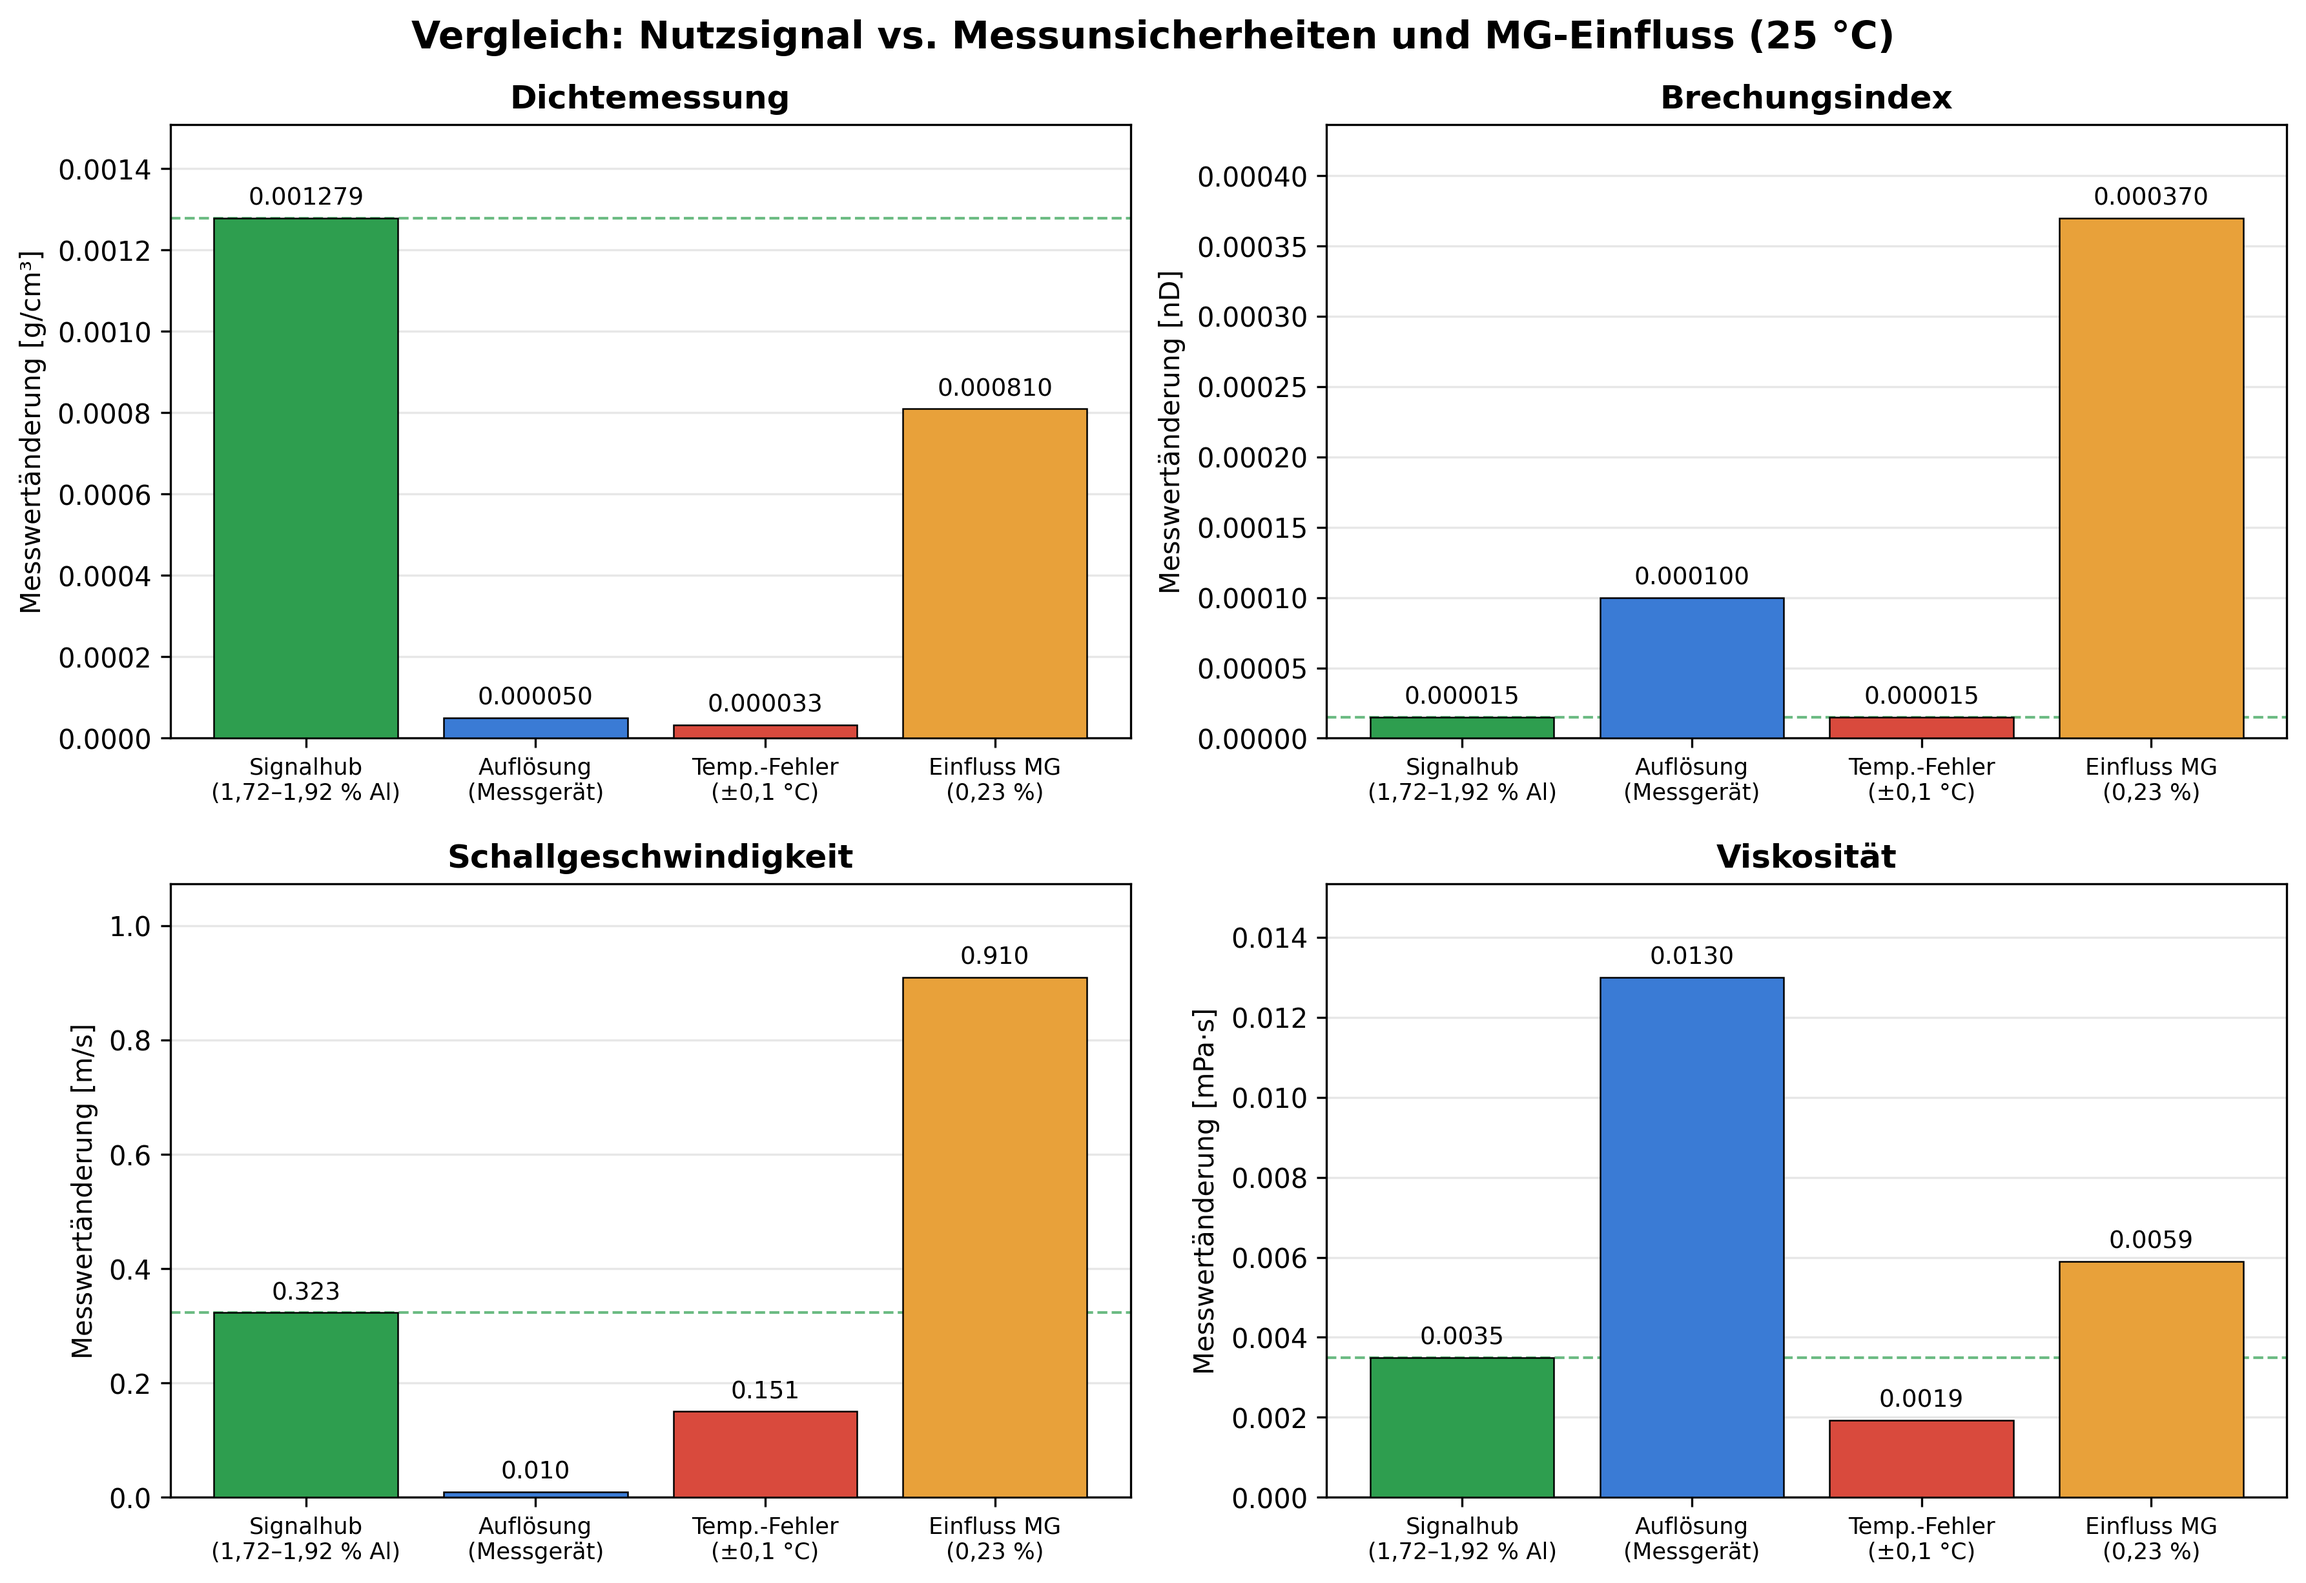
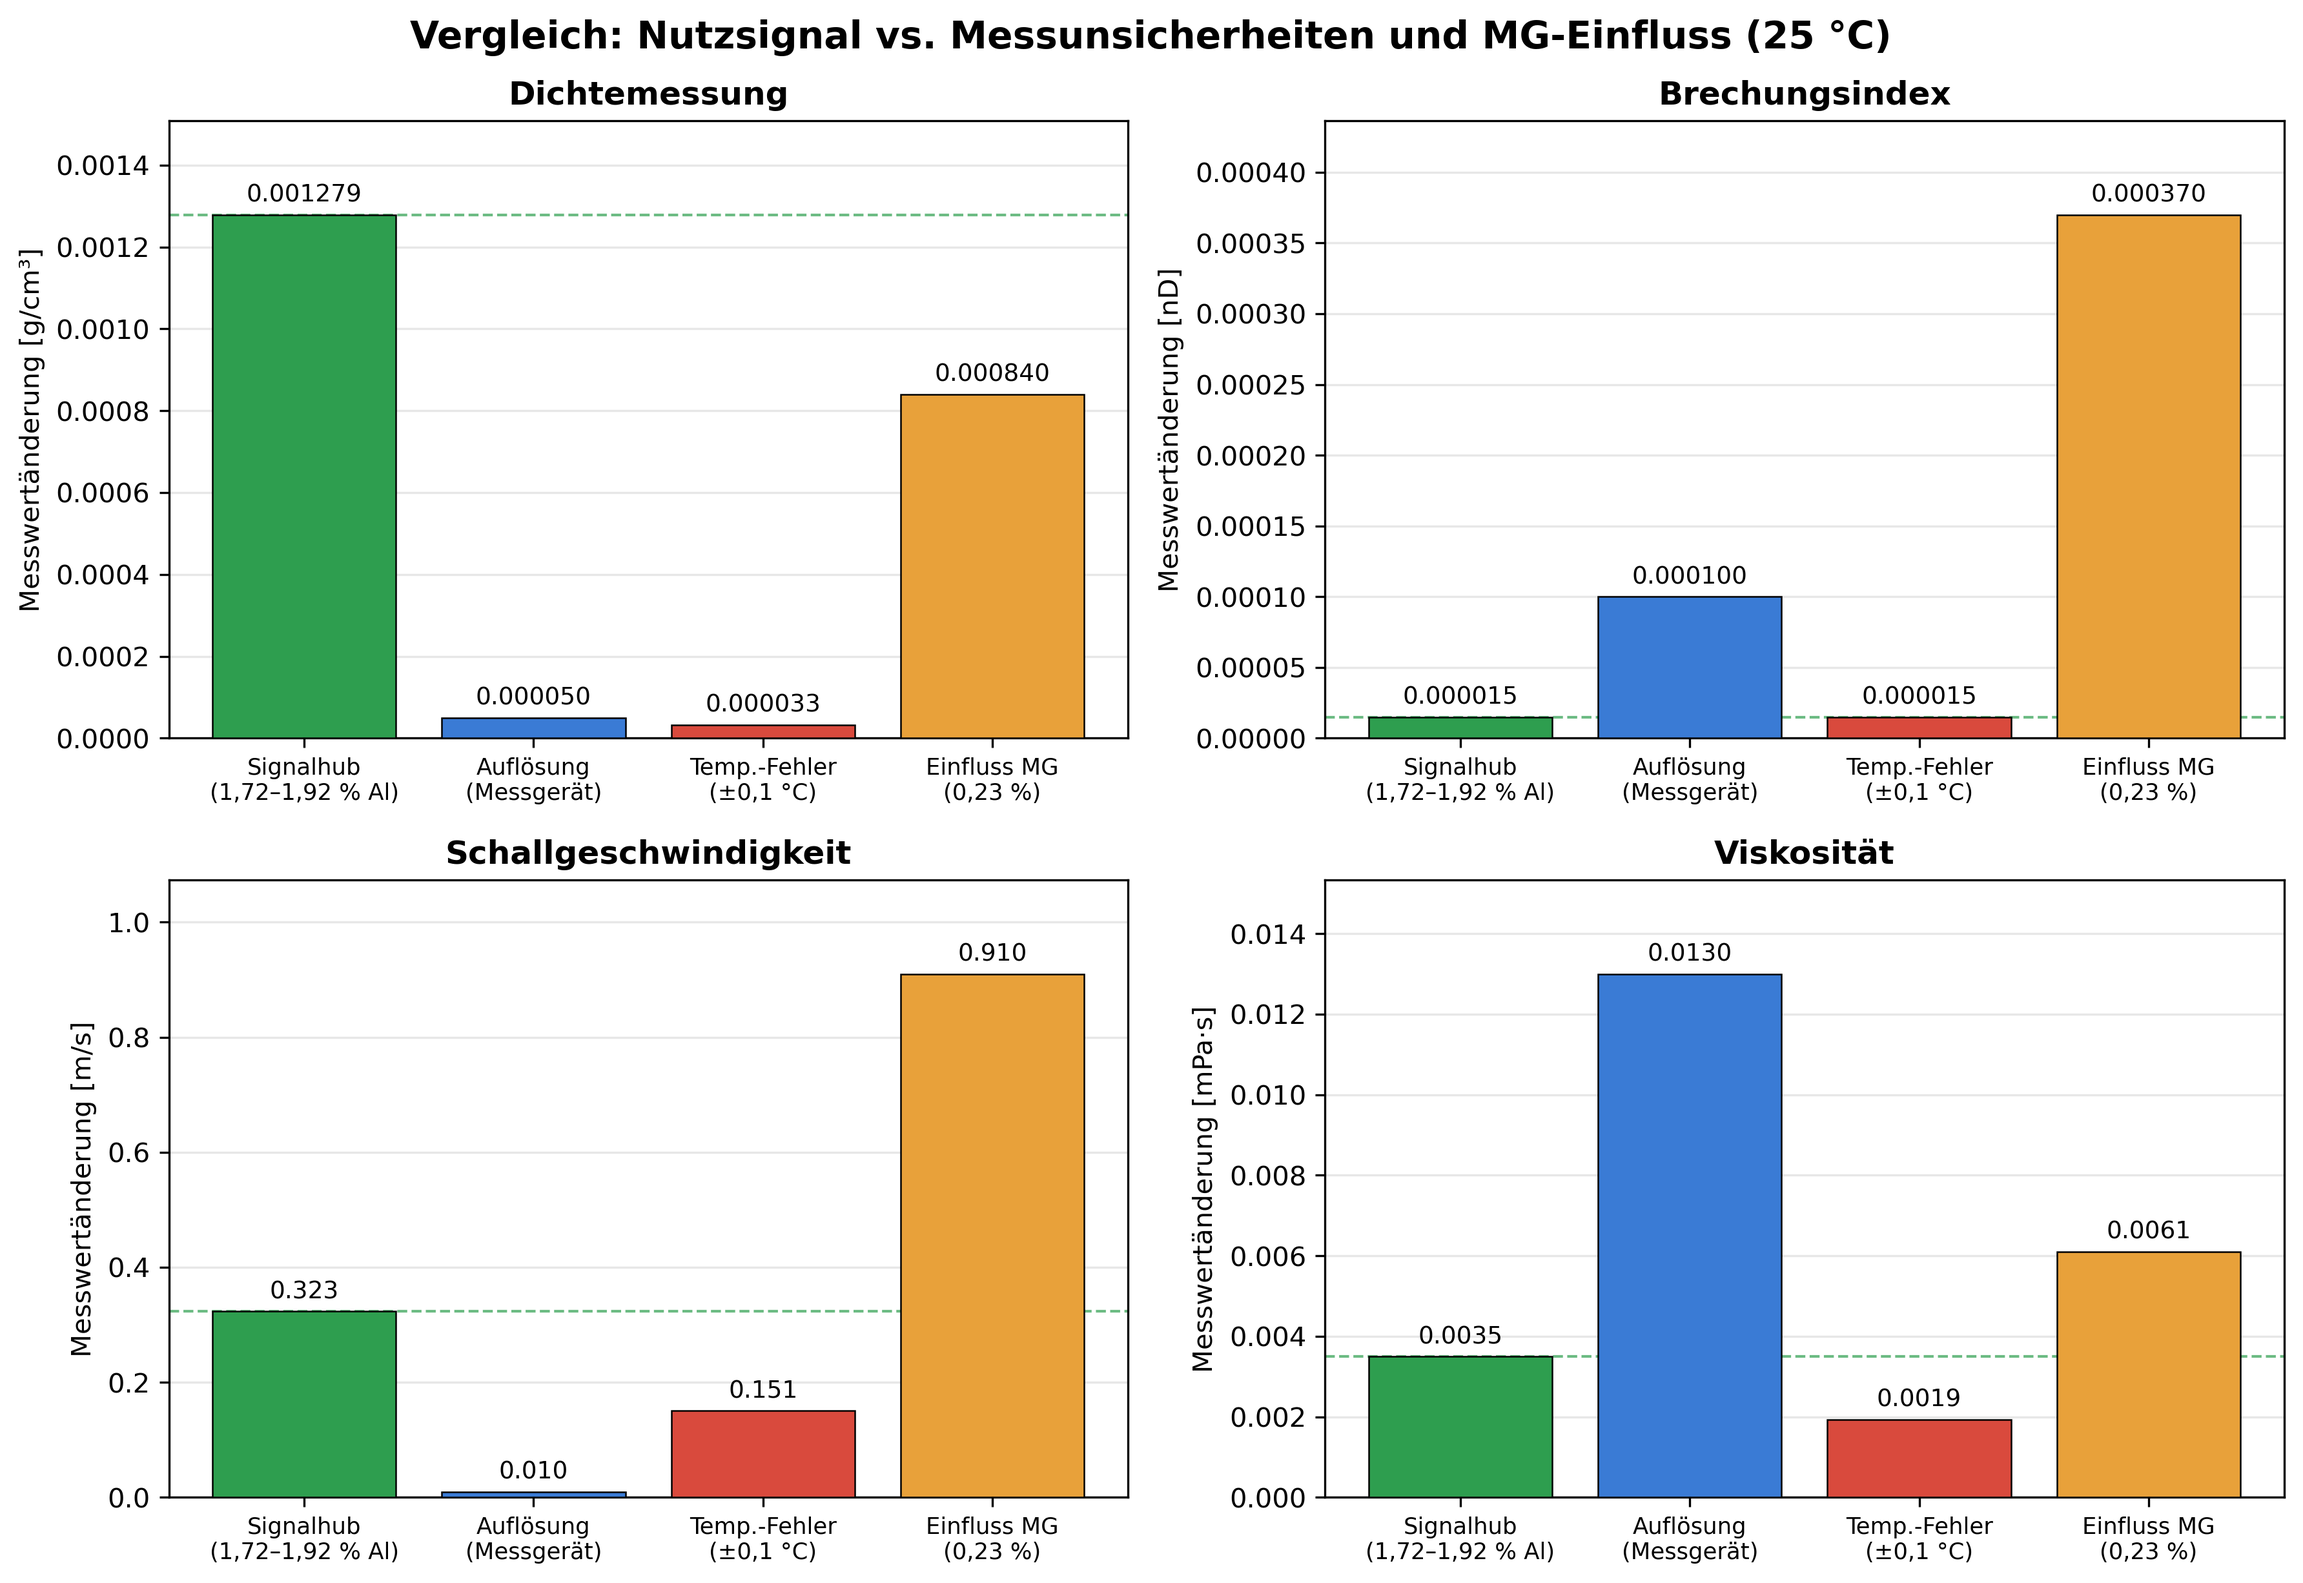
Tintenzusammensetzung genauer beschrieben durch Brüche

diff --git a/ink_calculator_MG.py b/ink_calculator_MG.py
@@ -1260,12 +1260,12 @@ if __name__ == "__main__":
     ink = InkCalculator(tables_dir=tables)
 
     # original ink: 1.82% Al, 3.64% IPA, 3.64% PG, rest water, 25 C
-    props_old = ink.compute(al=1.82, ipa=3.64, pg=3.64, temperature=25)
+    props_old = ink.compute(al=160/88, ipa=320/88, pg=320/88, temperature=25)
     print(props_old)
 
     # new ink with methyl gallate:
     # 1.81% Al, 3.63% IPA, 3.63% PG, 0.23% MG, rest water (90.70%), 25 C
-    props_new = ink.compute(al=1.81, ipa=3.63, pg=3.63, mg=0.23, temperature=25)
+    props_new = ink.compute(al=160/88.2, ipa=320/88.2, pg=320/88.2, mg=20/88.2, temperature=25)
     print(props_new)
 
     print("Recipe change  (new - old):")

diff --git a/plot_histogram_resolution.py b/plot_histogram_resolution.py
@@ -34,7 +34,7 @@ OUTPUT_FILE = "plots/signal_vs_uncertainties_25C.png"
 # ---------------------------------------------------------------
 DATA = {
     "Dichtemessung": {
-        "values": [0.001279, 0.00005, 0.000033, 0.00081],
+        "values": [0.001279, 0.00005, 0.000033, 0.00084],
         "unit": "g/cm³",
         "fmt": "{:.6f}",
     },
@@ -49,7 +49,7 @@ DATA = {
         "fmt": "{:.3f}",
     },
     "Viskosität": {
-        "values": [0.003496, 0.013, 0.001933, 0.0059],
+        "values": [0.003496, 0.013, 0.001933, 0.0061],
         "unit": "mPa·s",
         "fmt": "{:.4f}",
     },
